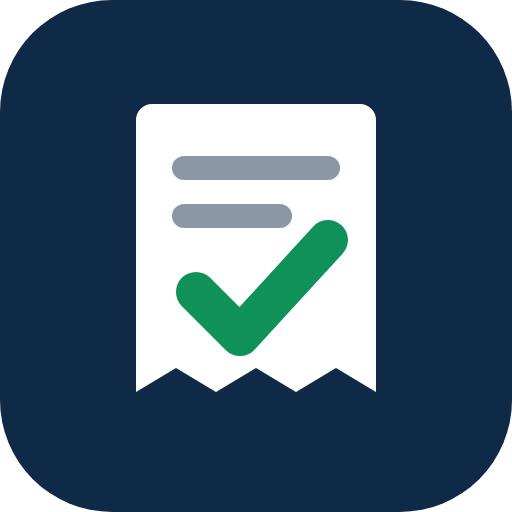
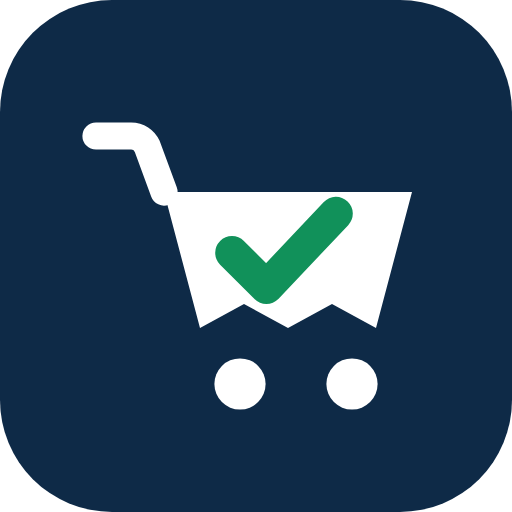
Renomeia o aplicativo para Meu Carrin
- Marca nova: carrinho cujo cesto é um cupom fiscal, com o visto verde herdado.
  O desenho vive em src/ui/Logo.tsx e gera os ícones (scripts/generate-icons.mjs)
  e a arte da loja (novo scripts/generate-store-art.mjs).
- Textos do app, manifesto do PWA, política de privacidade e ficha da Play Store.
- Identificador do app passa a com.meucarrin.app e o scheme a meucarrin (o app
  ainda não foi publicado; depois da publicação o identificador não poderia mudar).
- EXPO_PUBLIC_WEB_URL padrão passa a https://app.meucarrin.com.
- Frase de apresentação alinhada ao novo posicionamento, no manifesto e na loja.

Continuam com o nome anterior, de propósito: o repositório no GitHub, o Worker do
Cloudflare e o caminho /confereai do GitHub Pages (renomeá-los quebraria a
publicação automática) e o arquivo do banco local confere-ai.db (trocá-lo apagaria
os dados de quem já usa o app). O service worker continua limpando os caches antigos.

Testes: 112 Jest, 55 de banco e 22 passos ponta a ponta, todos passando;
tsc e ESLint sem erros.

Claude-Session: https://claude.ai/code/session_0114ggdmEPuzA42hxN8r7fPR

Changed region(s): [[0.1562, 0.1875, 0.8125, 0.8125]]

diff --git a/docs/privacidade.html b/docs/privacidade.html
@@ -3,7 +3,7 @@
 <head>
 <meta charset="utf-8">
 <meta name="viewport" content="width=device-width, initial-scale=1">
-<title>Política de privacidade — Confere Aí</title>
+<title>Política de privacidade — Meu Carrin</title>
 <style>
   :root { --navy:#0E2A47; --green:#11915A; --bg:#F3F5F8; --text:#0F1C2A; --muted:#5A6878; --border:#DFE5EC; }
   * { box-sizing: border-box; }
@@ -24,12 +24,12 @@
 <body>
 <header><div>
   <h1>Confere <span>Aí</span></h1>
-  <p>Política de privacidade · última atualização: 11 de novembro de 2026</p>
+  <p>Política de privacidade · última atualização: 14 de novembro de 2026</p>
 </div></header>
 <main>
   <section>
     <h2>Quem somos</h2>
-    <p>O Confere Aí é um aplicativo de apoio à conferência de compras de supermercado. Responsável pelo tratamento dos dados: <strong>Breno Sampaio</strong>. Contato sobre privacidade: <a href="mailto:atendimentoencantoindiana@gmail.com"><strong>atendimentoencantoindiana@gmail.com</strong></a>.</p>
+    <p>O Meu Carrin é um aplicativo de apoio à conferência de compras de supermercado. Responsável pelo tratamento dos dados: <strong>Breno Sampaio</strong>. Contato sobre privacidade: <a href="mailto:atendimentoencantoindiana@gmail.com"><strong>atendimentoencantoindiana@gmail.com</strong></a>.</p>
   </section>
   <section>
     <h2>Quais dados tratamos</h2>
@@ -47,7 +47,7 @@
     <h2>Onde os dados ficam</h2>
     <ul>
       <li>Sem conta, tudo fica apenas no seu aparelho.</li>
-      <li>Com conta, os dados são sincronizados com o banco de dados do Confere Aí (Supabase), com acesso restrito a você por regras de segurança por usuário.</li>
+      <li>Com conta, os dados são sincronizados com o banco de dados do Meu Carrin (Supabase), com acesso restrito a você por regras de segurança por usuário.</li>
       <li>As fotos de cupons não são armazenadas na nuvem. Elas ficam no aparelho até a leitura e são apagadas em seguida. Fotos de embalagens ficam apenas no aparelho. Fotos de ofertas publicadas no marketplace seguem a seção própria.</li>
     </ul>
   </section>
@@ -67,12 +67,12 @@
       <li>Se você tiver conta e a contribuição estiver ligada (aba Perfil), os preços que registrar em compras vinculadas a uma unidade cadastrada de supermercado são enviados à base compartilhada: produto (nome, marca, embalagem e código de barras), preço, se era promoção, data e unidade.</li>
       <li>Outras pessoas veem apenas o preço, a data, a unidade e quantas pessoas informaram. Seu nome, e-mail, compras, orçamento e gastos nunca são exibidos nem compartilhados.</li>
       <li>Você pode desligar a contribuição a qualquer momento no Perfil. As contribuições são apagadas ao excluir a conta e, em qualquer caso, após 12 meses. O cadastro do produto (sem dado pessoal) permanece.</li>
-      <li>Os preços da comunidade não são verificados pelo Confere Aí e podem estar desatualizados; a data de cada informação é sempre mostrada.</li>
+      <li>Os preços da comunidade não são verificados pelo Meu Carrin e podem estar desatualizados; a data de cada informação é sempre mostrada.</li>
     </ul>
   </section>
   <section>
     <h2>Leitura automática de imagens</h2>
-    <p>Quando você pede a leitura automática, a imagem é enviada com conexão criptografada para o servidor do Confere Aí, que a repassa ao serviço de reconhecimento de texto configurado (por exemplo, a API da Anthropic ou o Google Cloud Vision). A imagem é usada somente para extrair o texto e não é armazenada pelo Confere Aí. Os provedores têm suas próprias políticas de retenção.</p>
+    <p>Quando você pede a leitura automática, a imagem é enviada com conexão criptografada para o servidor do Meu Carrin, que a repassa ao serviço de reconhecimento de texto configurado (por exemplo, a API da Anthropic ou o Google Cloud Vision). A imagem é usada somente para extrair o texto e não é armazenada pelo Meu Carrin. Os provedores têm suas próprias políticas de retenção.</p>
     <p>O envio só ocorre após o seu consentimento, que pode ser revogado a qualquer momento na aba Conta. Os cálculos da conferência são feitos por regras fixas no próprio aplicativo; a inteligência artificial não decide valores.</p>
   </section>
   <section>
@@ -86,7 +86,7 @@
   </section>
   <section>
     <h2>Limitações</h2>
-    <p>O Confere Aí é uma ferramenta de apoio. Ele não garante a identificação de todos os erros e não substitui a conferência do cupom impresso. Alertas indicam pontos de atenção, não a confirmação de cobrança indevida.</p>
+    <p>O Meu Carrin é uma ferramenta de apoio. Ele não garante a identificação de todos os erros e não substitui a conferência do cupom impresso. Alertas indicam pontos de atenção, não a confirmação de cobrança indevida.</p>
   </section>
   <p class="muted">Esta política pode ser atualizada; a data no topo indica a versão vigente.</p>
 </main>

diff --git a/src/app/privacy.tsx b/src/app/privacy.tsx
@@ -32,14 +32,14 @@ const SECTIONS: { title: string; body: string[] }[] = [
     title: 'Onde os dados ficam',
     body: [
       'Sem conta, tudo fica apenas no seu aparelho.',
-      'Com conta, os dados são sincronizados com o banco de dados do Confere Aí (Supabase), com acesso restrito a você por regras de segurança por usuário.',
+      'Com conta, os dados são sincronizados com o banco de dados do Meu Carrin (Supabase), com acesso restrito a você por regras de segurança por usuário.',
       'As fotos de cupons não são enviadas para a nuvem para armazenamento. Elas ficam no aparelho até a leitura e são apagadas em seguida. Fotos de embalagens que você tirar ficam apenas no aparelho. (Fotos de ofertas publicadas no marketplace são tratadas na seção própria.)',
     ],
   },
   {
     title: 'Leitura automática de imagens',
     body: [
-      'Quando você pede a leitura automática, a imagem é enviada com conexão criptografada para a função do servidor do Confere Aí, que a repassa ao serviço de reconhecimento de texto configurado (por exemplo, a API da Anthropic ou o Google Cloud Vision). A imagem é usada somente para extrair o texto e não é armazenada pelo Confere Aí.',
+      'Quando você pede a leitura automática, a imagem é enviada com conexão criptografada para a função do servidor do Meu Carrin, que a repassa ao serviço de reconhecimento de texto configurado (por exemplo, a API da Anthropic ou o Google Cloud Vision). A imagem é usada somente para extrair o texto e não é armazenada pelo Meu Carrin.',
       'Os provedores têm suas próprias políticas de retenção, informadas nos respectivos termos. O envio só ocorre após o seu consentimento, que pode ser revogado na aba Conta.',
       'Os cálculos da conferência são feitos por regras fixas no próprio aplicativo; a inteligência artificial não decide valores.',
     ],
@@ -60,7 +60,7 @@ const SECTIONS: { title: string; body: string[] }[] = [
   {
     title: 'Limitações',
     body: [
-      'O Confere Aí é uma ferramenta de apoio. Ele não garante a identificação de todos os erros e não substitui a conferência do cupom impresso. Alertas indicam pontos de atenção, não a confirmação de cobrança indevida.',
+      'O Meu Carrin é uma ferramenta de apoio. Ele não garante a identificação de todos os erros e não substitui a conferência do cupom impresso. Alertas indicam pontos de atenção, não a confirmação de cobrança indevida.',
     ],
   },
 ];

diff --git a/src/ui/Logo.tsx b/src/ui/Logo.tsx
@@ -1,31 +1,45 @@
-import Svg, { Path, Rect } from 'react-native-svg';
+import Svg, { Circle, Path, Rect } from 'react-native-svg';
 import { View, Text, StyleSheet } from 'react-native';
 import { colors } from './theme';
 
 /**
- * Marca: um cupom fiscal (borda serrilhada) com um sinal de conferido.
+ * Marca: um carrinho cujo cesto é um cupom fiscal (borda serrilhada) com um sinal de conferido.
  * Funciona sozinho como ícone e acompanhado do nome no cabeçalho.
+ * O mesmo desenho gera os ícones do app em scripts/generate-icons.mjs.
  */
 export function LogoMark({ size = 40 }: { size?: number }) {
   return (
     <Svg width={size} height={size} viewBox="0 0 64 64">
       <Rect width="64" height="64" rx="16" fill={colors.navy} />
       <Path
-        d="M19 13h26a2 2 0 0 1 2 2v34l-5-3-5 3-5-3-5 3-5-3-5 3V15a2 2 0 0 1 2-2z"
-        fill={colors.white}
+        d="M12 17h4.4a2.2 2.2 0 0 1 2 1.3L20.5 24"
+        stroke={colors.white}
+        strokeWidth={3.4}
+        strokeLinecap="round"
+        strokeLinejoin="round"
+        fill="none"
       />
-      <Path d="M23 21h18M23 27h12" stroke={colors.textFaint} strokeWidth={3} strokeLinecap="round" />
-      <Path d="M24.5 36.5l5.5 5.5 11-12" stroke={colors.green} strokeWidth={5} strokeLinecap="round" strokeLinejoin="round" fill="none" />
+      <Path d="M20.5 24H51.5L47 41l-5.5-3-5.5 3-5.5-3-5.5 3Z" fill={colors.white} />
+      <Path
+        d="M29 31.6l4.3 4.3 8.7-9.2"
+        stroke={colors.green}
+        strokeWidth={4.2}
+        strokeLinecap="round"
+        strokeLinejoin="round"
+        fill="none"
+      />
+      <Circle cx="30" cy="48" r="3.2" fill={colors.white} />
+      <Circle cx="44" cy="48" r="3.2" fill={colors.white} />
     </Svg>
   );
 }
 
 export function Logo({ size = 36, light = false }: { size?: number; light?: boolean }) {
   return (
-    <View style={styles.row} accessibilityRole="header" accessibilityLabel="Confere Aí">
+    <View style={styles.row} accessibilityRole="header" accessibilityLabel="Meu Carrin">
       <LogoMark size={size} />
       <Text style={[styles.word, { fontSize: size * 0.62, color: light ? colors.white : colors.navy }]}>
-        Confere <Text style={{ color: colors.green }}>Aí</Text>
+        Meu <Text style={{ color: colors.green }}>Carrin</Text>
       </Text>
     </View>
   );

diff --git a/src/app/(tabs)/profile.tsx b/src/app/(tabs)/profile.tsx
@@ -112,7 +112,7 @@ export default function Account() {
         <Card>
           <T v="heading">Guarde suas compras na nuvem</T>
           <T color={colors.textMuted}>
-            Você pode usar o Confere Aí sem conta: tudo fica salvo neste aparelho. Crie uma conta para fazer cópia de segurança e acessar o histórico em outro celular.
+            Você pode usar o Meu Carrin sem conta: tudo fica salvo neste aparelho. Crie uma conta para fazer cópia de segurança e acessar o histórico em outro celular.
           </T>
           <Button title="Entrar ou criar conta" icon="person-add-outline" onPress={() => router.push('/auth')} />
         </Card>
@@ -179,7 +179,7 @@ export default function Account() {
       </Card>
 
       <View style={{ gap: 2, alignItems: 'center', paddingTop: space.md }}>
-        <T v="small" color={colors.textFaint}>Confere Aí · versão {Constants.expoConfig?.version ?? '—'}</T>
+        <T v="small" color={colors.textFaint}>Meu Carrin · versão {Constants.expoConfig?.version ?? '—'}</T>
         <T v="small" color={colors.textFaint} center>Ferramenta de apoio à conferência. Não substitui a verificação do cupom impresso.</T>
       </View>
 

diff --git a/src/ui/market/share.ts b/src/ui/market/share.ts
@@ -4,11 +4,11 @@ import { config } from '@/lib/config';
 
 export async function shareOffer(o: { id: string; product_name: string; promotional_price_cents: number; sale_unit: string; supermarket_name: string; ends_on: string; starts_on?: string }) {
   const url = `${config.webUrl}/offers/${o.id}`;
-  const message = `${o.product_name} por ${formatOfferPrice(o.promotional_price_cents, o.sale_unit)} no ${o.supermarket_name} (${validityText(o.ends_on, o.starts_on).toLowerCase()}). Vi no Confere Aí: ${url}`;
+  const message = `${o.product_name} por ${formatOfferPrice(o.promotional_price_cents, o.sale_unit)} no ${o.supermarket_name} (${validityText(o.ends_on, o.starts_on).toLowerCase()}). Vi no Meu Carrin: ${url}`;
   if (Platform.OS === 'web') {
     const nav = globalThis.navigator as Navigator | undefined;
     if (nav?.share) {
-      await nav.share({ title: 'Oferta no Confere Aí', text: message, url }).catch(() => {});
+      await nav.share({ title: 'Oferta no Meu Carrin', text: message, url }).catch(() => {});
       return 'shared';
     }
     await nav?.clipboard?.writeText(message);

diff --git a/src/lib/permissions.ts b/src/lib/permissions.ts
@@ -21,7 +21,7 @@ export function cameraPermissionView(p: PermissionLike | null | undefined, camer
   if (p.canAskAgain) {
     return {
       kind: 'request',
-      message: 'Para ler códigos de barras e fotografar cupons, o Confere Aí precisa acessar a câmera. As imagens ficam no aparelho, salvo quando você pedir a leitura automática.',
+      message: 'Para ler códigos de barras e fotografar cupons, o Meu Carrin precisa acessar a câmera. As imagens ficam no aparelho, salvo quando você pedir a leitura automática.',
     };
   }
   return {
@@ -50,6 +50,6 @@ export function locationPermissionView(p: PermissionLike | null | undefined): Lo
   return {
     kind: 'blocked',
     message:
-      'A localização está desativada para o Confere Aí. Você ainda pode publicar escolhendo o supermercado manualmente; a oferta passará por análise antes de aparecer para todos.',
+      'A localização está desativada para o Meu Carrin. Você ainda pode publicar escolhendo o supermercado manualmente; a oferta passará por análise antes de aparecer para todos.',
   };
 }

diff --git a/src/services/productLookup.ts b/src/services/productLookup.ts
@@ -17,7 +17,7 @@ export interface ProductSuggestion {
   source: 'open_food_facts' | 'community';
 }
 
-/** Sugestão para um código desconhecido: primeiro a base da comunidade do Confere Aí, depois o Open Food Facts. */
+/** Sugestão para um código desconhecido: primeiro a base da comunidade do Meu Carrin, depois o Open Food Facts. */
 export async function lookupPublicProduct(barcode: string): Promise<ProductSuggestion | null> {
   const shared = await lookupCommunityProduct(barcode);
   if (shared) {
@@ -35,7 +35,7 @@ async function lookupOpenFoodFacts(barcode: string): Promise<ProductSuggestion |
   try {
     const res = await fetch(
       `https://world.openfoodfacts.org/api/v2/product/${barcode}.json?fields=product_name,product_name_pt,brands,quantity`,
-      { signal: controller.signal, headers: { 'User-Agent': 'ConfereAi/1.0 (app de conferência de compras)' } },
+      { signal: controller.signal, headers: { 'User-Agent': 'MeuCarrin/1.0 (app de conferência de compras)' } },
     );
     if (!res.ok) return null;
     const data = await res.json();

diff --git a/src/app/item/add.tsx b/src/app/item/add.tsx
@@ -324,7 +324,7 @@ export default function AddItem() {
           ) : null}
           {suggestion ? (
             <Card>
-              <T v="caption" color={colors.textMuted} style={{ textTransform: 'uppercase' }}>{suggestion.source === 'community' ? 'Sugestão da comunidade do Confere Aí' : 'Sugestão da base pública Open Food Facts'}</T>
+              <T v="caption" color={colors.textMuted} style={{ textTransform: 'uppercase' }}>{suggestion.source === 'community' ? 'Sugestão da comunidade do Meu Carrin' : 'Sugestão da base pública Open Food Facts'}</T>
               <T v="bodyStrong">{suggestion.name}</T>
               <T v="small" color={colors.textMuted}>{[suggestion.brand, suggestion.quantityText].filter(Boolean).join(' · ')}</T>
               <T v="small" color={colors.textMuted}>Base colaborativa: confira se corresponde à embalagem em mãos.</T>

diff --git a/src/app/product/[id].tsx b/src/app/product/[id].tsx
@@ -120,7 +120,7 @@ export default function ProductScreen() {
                     detail: `${c.city}/${c.state} · ${FRESH_PILL[f].label.toLowerCase()}, ${ageLabel(c.observed_at, now)}${c.promo ? ' · promoção' : ''} · ${c.reporters <= 1 ? 'informado por 1 pessoa' : `informado por ${c.reporters} pessoas`}`,
                   };
                 })}
-                note="Informações de outros usuários, sem verificação do Confere Aí. Confira o preço na loja."
+                note="Informações de outros usuários, sem verificação do Meu Carrin. Confira o preço na loja."
               />
             ) : null}
           </Card>

diff --git a/src/app/(tabs)/offers.tsx b/src/app/(tabs)/offers.tsx
@@ -140,7 +140,7 @@ export default function OffersScreen() {
         {!configured ? (
           <View style={{ paddingHorizontal: space.lg }}>
             <Banner t="yellow" icon="cloud-offline-outline" title="Marketplace indisponível neste aplicativo">
-              As ofertas da comunidade ficam no servidor do Confere Aí, que ainda não foi configurado nesta versão. O restante do app funciona normalmente.
+              As ofertas da comunidade ficam no servidor do Meu Carrin, que ainda não foi configurado nesta versão. O restante do app funciona normalmente.
             </Banner>
           </View>
         ) : (

diff --git a/src/lib/config.ts b/src/lib/config.ts
@@ -8,7 +8,7 @@ export const config = {
   /** Consulta opcional à base pública Open Food Facts para sugerir nome/marca pelo código. */
   openFoodFacts: (process.env.EXPO_PUBLIC_OPEN_FOOD_FACTS ?? 'true') !== 'false',
   /** Endereço público da versão web, usado nos links compartilhados de ofertas. */
-  webUrl: (process.env.EXPO_PUBLIC_WEB_URL || 'https://brenosampaio013.github.io/confereai').replace(/\/$/, ''),
+  webUrl: (process.env.EXPO_PUBLIC_WEB_URL || 'https://app.meucarrin.com').replace(/\/$/, ''),
   privacyContactEmail: process.env.EXPO_PUBLIC_PRIVACY_CONTACT || 'atendimentoencantoindiana@gmail.com',
 };
 

diff --git a/src/ui/OcrConsent.tsx b/src/ui/OcrConsent.tsx
@@ -31,7 +31,7 @@ export function useOcrConsent() {
   const sheet = (
     <Sheet visible={open} onClose={() => answer(false)} title="Leitura automática de imagens">
       <T>
-        Para ler o texto da foto, a imagem é enviada com conexão segura ao servidor do Confere Aí, que a repassa ao serviço de
+        Para ler o texto da foto, a imagem é enviada com conexão segura ao servidor do Meu Carrin, que a repassa ao serviço de
         reconhecimento de texto configurado pelo operador do aplicativo (inteligência artificial ou OCR em nuvem).
       </T>
       <Banner t="navy" icon="shield-checkmark-outline">
